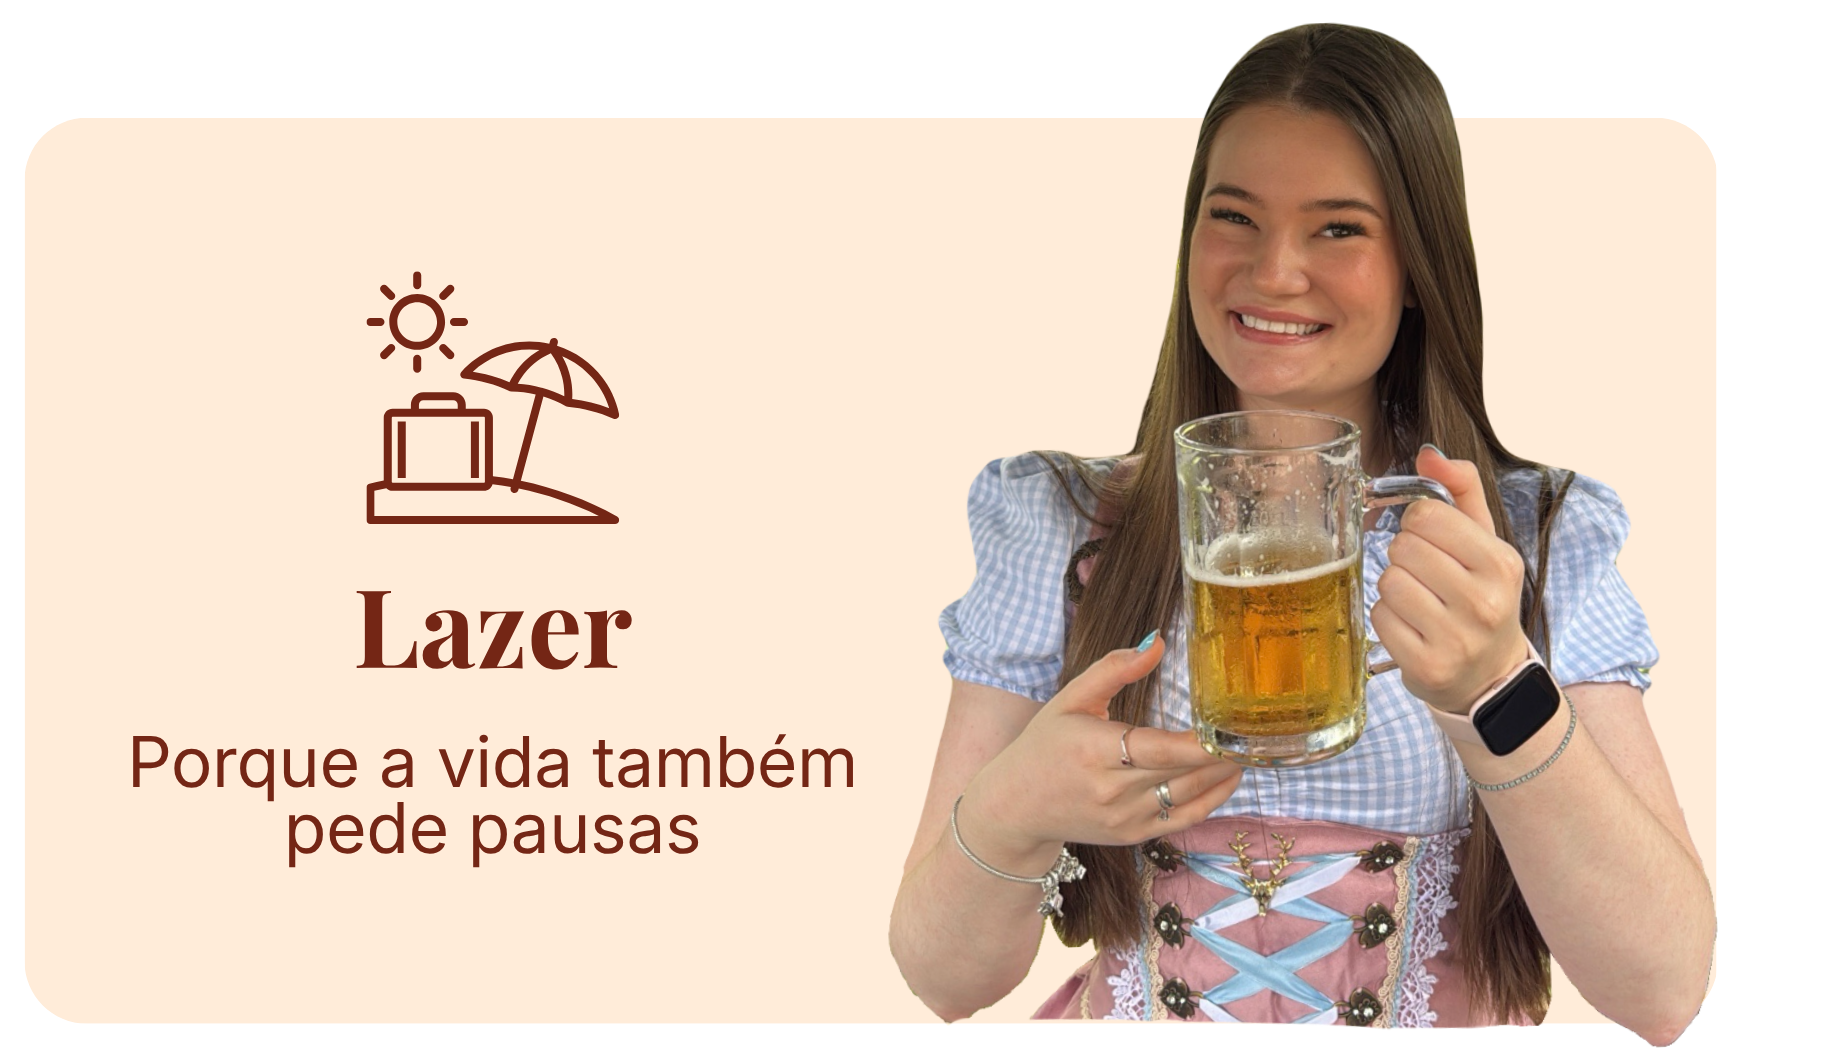
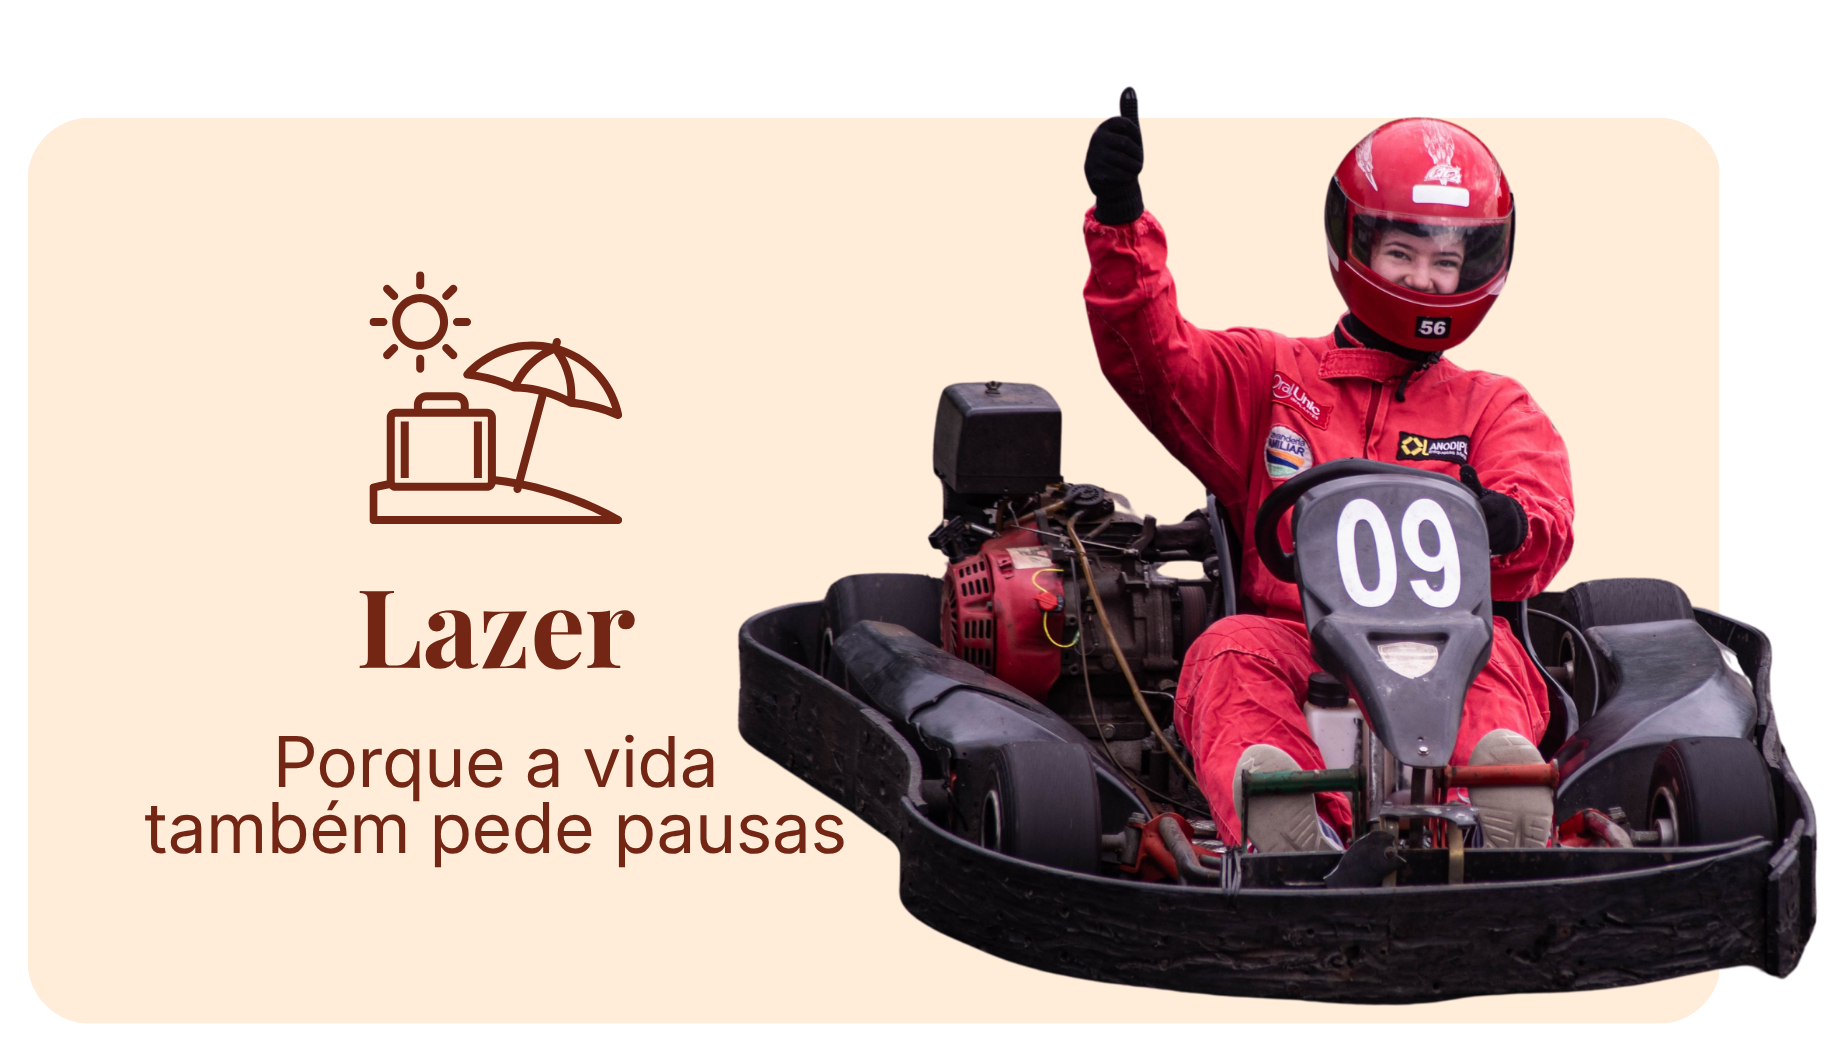
Ajusta botões da home

diff --git a/app/page.tsx b/app/page.tsx
@@ -25,65 +25,42 @@ export default async function Home() {
 
   return (
     <main className="min-h-screen">
-      {/* Hero Section - Reviews por Isabel */}
-      <section className="relative bg-gradient-to-br from-beje-tulipa/30 via-off-white-rosado to-white py-20 px-6 md:py-32">
-        <div className="max-w-6xl mx-auto">
-          <div className="grid md:grid-cols-2 gap-12 items-center">
-            {/* Text Content */}
-            <div className="text-center md:text-left space-y-6">
-              <h1 className="text-5xl md:text-6xl lg:text-7xl font-display text-marrom-escuro leading-tight">
-                Oi! Eu sou a Isa!
-              </h1>
-              <div className="space-y-3 text-marrom-escuro text-base md:text-lg leading-relaxed max-w-lg mx-auto md:mx-0">
-                <p>
-                  O Reviews por Isabel nasceu da minha vontade de compartilhar lugares que realmente valem a visita em Blumenau e região.
-                </p>
-                <p>
-                  Por aqui você encontra restaurantes, cafés, passeios e experiências que eu já conheci e recomendo.
-                  Tudo baseado nas minhas próprias visitas.
-                </p>
-                <p>
-                  Espero te ajudar a descobrir lugares legais e ter novas experiências pela região!
-                </p>
-              </div>
-            </div>
+      {/* Hero Section & Favoritos da Isa */}
+      <section className="relative bg-gradient-to-br from-beje-tulipa/30 via-off-white-rosado to-white pt-8 pb-4 md:pt-10 md:pb-4 overflow-hidden">
 
-            {/* Image */}
-            <div className="relative">
-              <div className="aspect-square rounded-2xl shadow-lg overflow-hidden">
-                <Image
-                  src="/foto-home.jpeg"
-                  alt="Isabel - Reviews por Isabel"
-                  width={600}
-                  height={600}
-                  className="object-cover w-full h-full"
-                  priority
-                />
-              </div>
-              {/* Decorative elements */}
-              <div className="absolute -top-4 -right-4 w-24 h-24 bg-rosa-tulipa/20 rounded-full blur-2xl"></div>
-              <div className="absolute -bottom-4 -left-4 w-32 h-32 bg-verde-tulipa/20 rounded-full blur-2xl"></div>
-            </div>
-          </div>
+        {/* Texto do Guia */}
+        <div className="max-w-3xl mx-auto px-6 space-y-4 text-center relative z-10">
+          <h1 className="text-4xl md:text-5xl font-display font-bold text-marrom-escuro leading-tight">
+            Seu guia de experiências testadas e aprovadas
+          </h1>
+          <p className="text-marrom-escuro/80 text-base md:text-lg leading-relaxed max-w-2xl mx-auto">
+            Descubra restaurantes, cafés, passeios e serviços da região através de avaliações sinceras de lugares que eu já visitei e recomendo.
+          </p>
         </div>
-      </section>
 
-      {/* Favoritos da Isa */}
-      {favoritosDaIsa.length > 0 && (
-        <CarrosselLugares 
-          lugares={favoritosDaIsa} 
-          title="Favoritos da Isa 💖" 
-          subtitle="Lugares que eu amo e super recomendo!" 
-        />
-      )}
+        {/* Favoritos da Isa */}
+        {favoritosDaIsa.length > 0 && (
+          <div className="relative z-10 mt-4 md:mt-8">
+            <CarrosselLugares
+              lugares={favoritosDaIsa}
+              title="Favoritos da Isa 💖"
+              subtitle="Lugares que eu amo e super recomendo!"
+            />
+          </div>
+        )}
+
+        {/* Decorative elements */}
+        <div className="absolute top-0 right-0 w-64 h-64 bg-rosa-tulipa/20 rounded-full blur-3xl pointer-events-none -z-0"></div>
+        <div className="absolute bottom-10 left-0 w-80 h-80 bg-verde-tulipa/20 rounded-full blur-3xl pointer-events-none -z-0"></div>
+      </section>
 
       {/* Últimos Visitados */}
       {ultimosVisitados.length > 0 && (
         <div className="bg-beje-tulipa/20">
-          <CarrosselLugares 
-            lugares={ultimosVisitados} 
-            title="Últimos Visitados 🆕" 
-            subtitle="As novidades fresquinhas que acabei de conhecer" 
+          <CarrosselLugares
+            lugares={ultimosVisitados}
+            title="Últimos Visitados 🆕"
+            subtitle="As novidades fresquinhas que acabei de conhecer"
           />
         </div>
       )}
@@ -142,17 +119,10 @@ export default async function Home() {
               variant="primary"
             />
             <BotaoHub
-              title="Favoritos da Isa"
-              description="Descubra os meus lugares preferidos"
-              imageSrc="/img-botoes/favoritos.png"
-              href="/favoritos-da-isa"
-              variant="secondary"
-            />
-            <BotaoHub
-              title="Contato"
-              description="Fale comigo"
+              title="Sobre mim"
+              description="Conheça a Isa"
               imageSrc="/img-botoes/fale-comigo.png"
-              href="/contato"
+              href="/sobre-mim"
               variant="secondary"
             />
           </div>

diff --git a/app/sobre-mim/page.tsx b/app/sobre-mim/page.tsx
@@ -1,0 +1,53 @@
+import Image from 'next/image';
+
+export const metadata = {
+  title: 'Sobre Mim | Reviews por Isabel',
+  description: 'Conheça a Isa e a história por trás do Reviews por Isabel.',
+};
+
+export default function SobreMim() {
+  return (
+    <main className="min-h-screen">
+      <section className="relative bg-gradient-to-br from-beje-tulipa/30 via-off-white-rosado to-white py-20 px-6 md:py-32 flex-grow">
+        <div className="max-w-6xl mx-auto">
+          <div className="grid md:grid-cols-2 gap-12 items-center">
+            {/* Text Content */}
+            <div className="text-center md:text-left space-y-6">
+              <h1 className="text-5xl md:text-6xl lg:text-7xl font-display text-marrom-escuro leading-tight">
+                Oi! Eu sou a Isa!
+              </h1>
+              <div className="space-y-3 text-marrom-escuro text-base md:text-lg leading-relaxed max-w-lg mx-auto md:mx-0">
+                <p>
+                  Sou criadora de conteúdo natural de Blumenau (SC), bacharela em Ciências Contábeis e apaixonada por audiovisual, comunicação e por viver novas experiências.
+                </p>
+                <p>
+                  O Reviews por Isabel nasceu da minha vontade de compartilhar lugares que realmente valem a visita em Blumenau e região. Por aqui, reúno restaurantes, cafés, passeios e experiências que já vivi e recomendo, sempre com base nas minhas próprias vivências.
+                </p>
+                <p>
+                  Acredito que boas memórias merecem ser transformadas em registros que permanecem. Espero com isso, te inspirar a descobrir novos lugares e viver experiências incríveis pela região.
+                </p>
+              </div>
+            </div>
+
+            {/* Image */}
+            <div className="relative">
+              <div className="aspect-square rounded-2xl shadow-lg overflow-hidden">
+                <Image
+                  src="/foto-home.jpeg"
+                  alt="Isabel - Reviews por Isabel"
+                  width={600}
+                  height={600}
+                  className="object-cover w-full h-full"
+                  priority
+                />
+              </div>
+              {/* Decorative elements */}
+              <div className="absolute -top-4 -right-4 w-24 h-24 bg-rosa-tulipa/20 rounded-full blur-2xl"></div>
+              <div className="absolute -bottom-4 -left-4 w-32 h-32 bg-verde-tulipa/20 rounded-full blur-2xl"></div>
+            </div>
+          </div>
+        </div>
+      </section>
+    </main>
+  );
+}

diff --git a/components/CarrosselLugares.tsx b/components/CarrosselLugares.tsx
@@ -33,7 +33,7 @@ export function CarrosselLugares({ lugares, title, subtitle, showCategory = true
   }
 
   return (
-    <section className="py-12 w-full overflow-hidden">
+    <section className="pt-4 pb-10 md:pt-6 md:pb-12 w-full overflow-hidden">
       <div className="max-w-6xl mx-auto px-6 mb-6 flex items-end justify-between">
         <div>
           <h2 className="text-3xl md:text-4xl font-display font-bold text-marrom-escuro">{title}</h2>

diff --git a/components/Header.tsx b/components/Header.tsx
@@ -20,7 +20,7 @@ const menuItems = [
   { label: 'Lojas', href: '/lojas' },
   { label: '1 dia em Blumenau', href: '/roteiro' },
   { label: 'Cupons', href: '/cupons' },
-  { label: 'Contato', href: '/contato' },
+  { label: 'Sobre mim', href: '/sobre-mim' },
 ];
 
 /**
